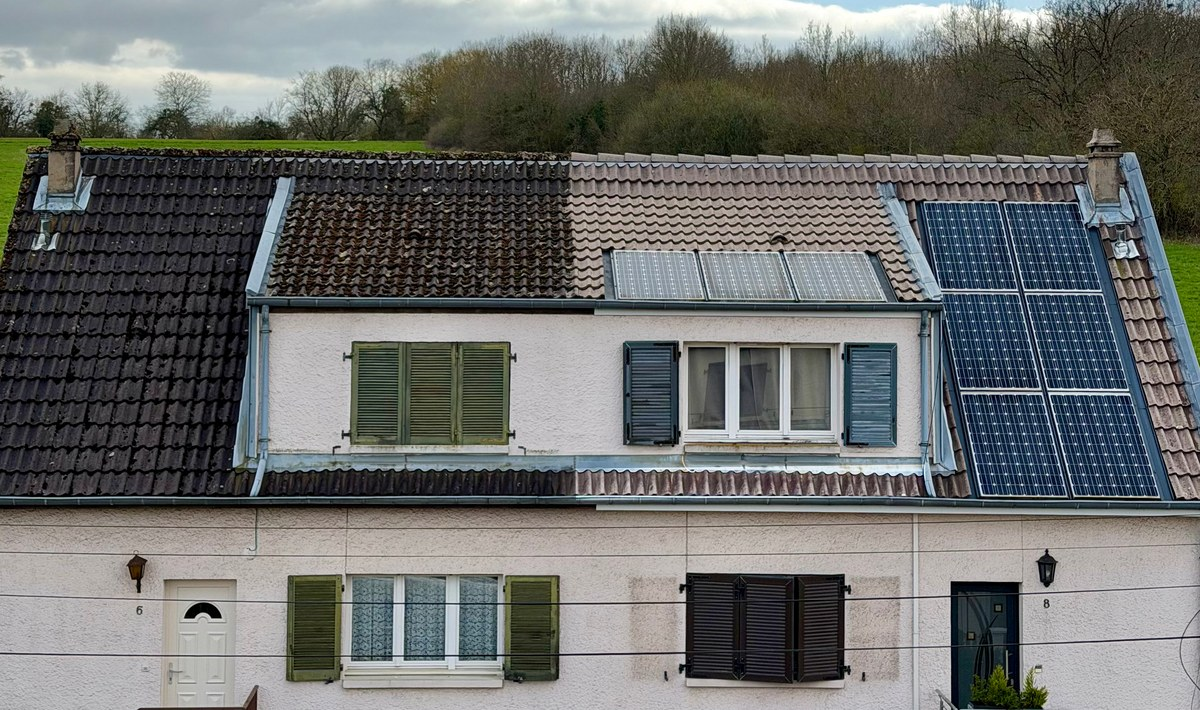
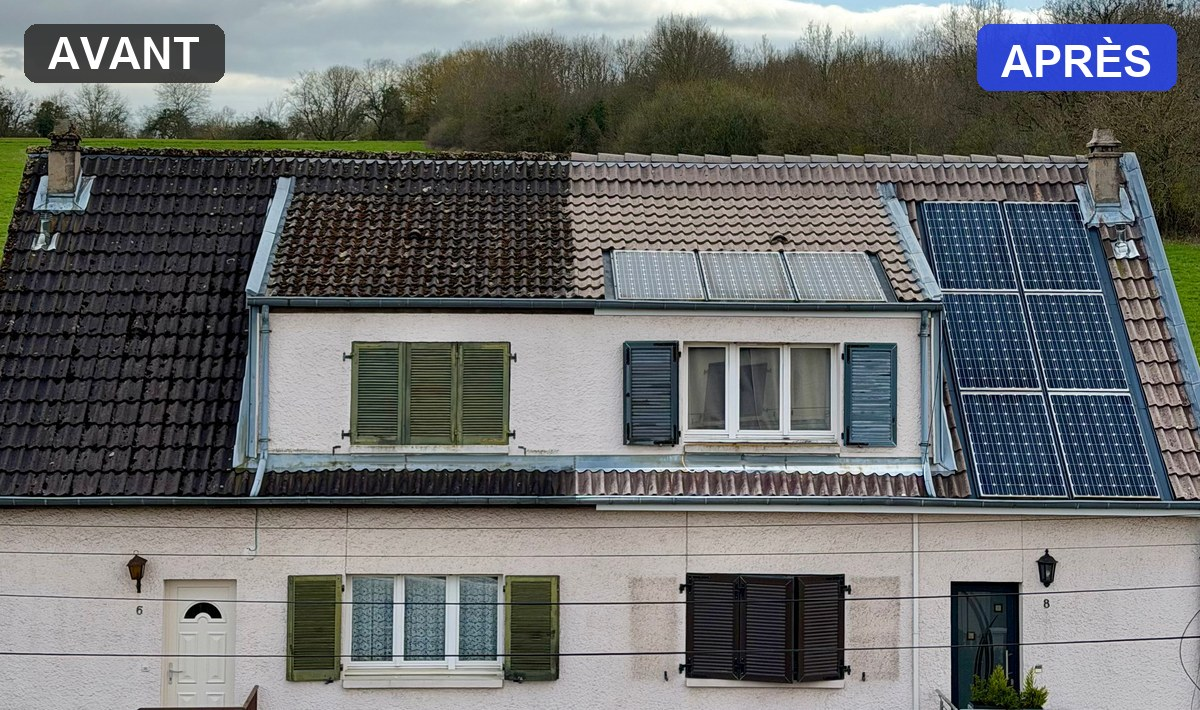
feat: corrections site (badges mobile, avant/après démoussage, prise de contact 48h, TVA, infos légales)
- Galerie: images visibles en entier sur mobile (badges AVANT/APRÈS non coupés)
- Démoussage Woippy transformé en carte avant/après (badges sur photo unique)
- Reformulation 'prise de contact sous 48h' (FAQ, contact, formulaire, réactivité)
- Bandeau et mentions: savoir-faire de père en fils depuis 1979
- Footer: n° TVA FR 86 881 492 698 + assurance RC/décennale Allianz
- Blog: retrait MaPrimeRénov'/CEE/éco-PTZ, recentré sur la TVA réduite
- Retrait 'agréé' (FAQ + logo Velux) et 'déplacement offert/gratuit' (Pourquoi + FAQ)
- Définition: 'De la toiture neuve à l'entretien'

Changed region(s): [[0.8017, 0.031, 0.9867, 0.1549], [0.0, 0.031, 0.185, 0.1239]]

diff --git a/index.html b/index.html
@@ -111,7 +111,7 @@
   .blog-card .readmore { font-weight: 800; font-size: 14.5px; color: #2A46E0; }
 
   /* Corrections mobile */
-  @media (max-width: 600px) { .installer-line { flex-direction: column; gap: 8px; } }
+  @media (max-width: 600px) { .installer-line { flex-direction: column; gap: 8px; } #realisations .card img { height: auto !important; } }
   @media (max-width: 480px) { .header-tel { display: none !important; } }
   @media (max-width: 760px) { .why-intro { position: static !important; top: auto !important; } }
 
@@ -134,9 +134,9 @@
       "telephone": "+33354730645",
       "email": "toiture.rs@gmail.com",
       "priceRange": "€€",
-      "slogan": "Savoir-faire de père en fils depuis 1986",
+      "slogan": "Savoir-faire de père en fils depuis 1979",
       "image": "https://www.schoeffter-toiture.fr/assets/hero-couverture-metz.jpg",
-      "vatID": "88149269800017",
+      "vatID": "FR86881492698",
       "identifier": { "@type": "PropertyValue", "name": "SIRET", "value": "881 492 698 00017" },
       "address": {
         "@type": "PostalAddress",
@@ -181,11 +181,11 @@
       "@id": "https://www.schoeffter-toiture.fr/#faq",
       "speakable": { "@type": "SpeakableSpecification", "cssSelector": ["#faq"] },
       "mainEntity": [
-        { "@type": "Question", "name": "La SAS Schoeffter réalise-t-elle des devis gratuits ?", "acceptedAnswer": { "@type": "Answer", "text": "Oui. Les devis sont gratuits et sans engagement pour les particuliers et les collectivités, déplacement et analyse de la toiture compris. La demande se fait par téléphone au 03 54 73 06 45, par email à toiture.rs@gmail.com ou via le formulaire du site." } },
+        { "@type": "Question", "name": "La SAS Schoeffter réalise-t-elle des devis gratuits ?", "acceptedAnswer": { "@type": "Answer", "text": "Oui. Les devis sont gratuits et sans engagement pour les particuliers et les collectivités, analyse de la toiture comprise. La demande se fait par téléphone au 03 54 73 06 45, par email à toiture.rs@gmail.com ou via le formulaire du site." } },
         { "@type": "Question", "name": "Quelles prestations propose un couvreur zingueur ?", "acceptedAnswer": { "@type": "Answer", "text": "Un couvreur zingueur pose et rénove les couvertures (tuiles, ardoises, zinc) et réalise tous les ouvrages d'évacuation des eaux : gouttières, chéneaux, noues, solins et habillages en zinc. La SAS Schoeffter ajoute la charpente, l'isolation des combles, le démoussage et la pose de Velux." } },
-        { "@type": "Question", "name": "Combien de temps pour un devis de toiture ?", "acceptedAnswer": { "@type": "Answer", "text": "La visite est planifiée sous 48 à 72 heures ouvrées et le devis écrit est remis dans les 48 heures qui suivent. En cas de fuite ou de toiture endommagée, une intervention d'urgence est possible le jour même." } },
-        { "@type": "Question", "name": "Intervenez-vous au Luxembourg ?", "acceptedAnswer": { "@type": "Answer", "text": "Oui. La SAS Schoeffter intervient au Luxembourg comme en Moselle et en Meurthe-et-Moselle, pour les chantiers de couverture, de charpente et de zinguerie. Le déplacement et le devis restent gratuits." } },
-        { "@type": "Question", "name": "Êtes-vous installateur Velux agréé ?", "acceptedAnswer": { "@type": "Answer", "text": "Oui, la SAS Schoeffter est installateur Velux. Nous posons et remplaçons les fenêtres de toit, volets et stores Velux, avec raccords d'étanchéité conformes aux préconisations du fabricant." } },
+        { "@type": "Question", "name": "Combien de temps pour un devis de toiture ?", "acceptedAnswer": { "@type": "Answer", "text": "Nous vous recontactons sous 48 heures ouvrées pour planifier la visite et établir votre devis. En cas de fuite ou de toiture endommagée, une intervention d'urgence est possible le jour même." } },
+        { "@type": "Question", "name": "Intervenez-vous au Luxembourg ?", "acceptedAnswer": { "@type": "Answer", "text": "Oui. La SAS Schoeffter intervient au Luxembourg comme en Moselle et en Meurthe-et-Moselle, pour les chantiers de couverture, de charpente et de zinguerie. Le devis reste gratuit et sans engagement." } },
+        { "@type": "Question", "name": "Êtes-vous installateur Velux ?", "acceptedAnswer": { "@type": "Answer", "text": "Oui, la SAS Schoeffter est installateur Velux. Nous posons et remplaçons les fenêtres de toit, volets et stores Velux, avec raccords d'étanchéité conformes aux préconisations du fabricant." } },
         { "@type": "Question", "name": "Proposez-vous le démoussage et l'entretien de toiture ?", "acceptedAnswer": { "@type": "Answer", "text": "Oui. Le démoussage, le nettoyage des gouttières et le traitement hydrofuge font partie de nos prestations d'entretien. Un entretien tous les deux à trois ans prolonge nettement la durée de vie d'une couverture." } },
         { "@type": "Question", "name": "Pourquoi faire confiance à un professionnel pour un démoussage ?", "acceptedAnswer": { "@type": "Answer", "text": "Parce qu'un démoussage mal fait abîme la toiture. Le nettoyeur haute pression décape la surface des tuiles et réduit fortement leur durée de vie. Chez SAS Schoeffter, les amas de mousse importants sont retirés à la main, tuile par tuile, à la spatule et à la brosse pour préserver la tuile, puis nous appliquons un anti-mousse hydrofuge professionnel (Dalep 2100). S'ajoutent la sécurité du travail en hauteur et le repérage des débuts d'infiltration, qu'un professionnel détecte avant qu'ils ne causent des dégâts." } },
         { "@type": "Question", "name": "Quelles garanties offrez-vous sur vos travaux ?", "acceptedAnswer": { "@type": "Answer", "text": "Tous nos travaux de couverture et de charpente sont couverts par l'assurance décennale. La garantie de parfait achèvement s'applique un an après réception du chantier, et les matériaux bénéficient de la garantie constructeur." } }
@@ -256,8 +256,8 @@
         <span style="position:absolute;top:50%;right:clamp(8px,4vw,64px);transform:translateY(-50%);z-index:5;pointer-events:none"><img class="seal-stamp" src="assets/garantie-decennale-or.svg?v=3" alt="Garantie décennale sur nos travaux de couverture et de charpente" style="display:block;height:clamp(104px,17vw,184px);width:auto;border-radius:16px;transform:rotate(10deg);filter:drop-shadow(0 10px 15px rgba(0,0,0,0.3)) drop-shadow(0 3px 5px rgba(0,0,0,0.22))"></span>
       </div>
       <div style="background:linear-gradient(180deg,#FAF4EC 0%,#FFFFFF 100%)">
-        <p class="wrap installer-line" style="padding:26px clamp(20px,5vw,32px) 8px;display:flex;align-items:center;justify-content:center;gap:12px;flex-wrap:wrap;font-weight:800;font-size:clamp(16px,2.6vw,26px);color:#333333">&amp; installateur <img src="assets/logo-velux.svg" alt="Installateur Velux agréé" width="87" height="30" style="display:block;height:clamp(26px,3.4vw,40px);width:auto"></p>
-        <p class="wrap" style="padding:6px clamp(20px,5vw,32px) 4px;text-align:center;font-size:clamp(15px,2.2vw,18px);font-weight:800;color:#333333">Savoir-faire de père en fils depuis 1986</p>
+        <p class="wrap installer-line" style="padding:26px clamp(20px,5vw,32px) 8px;display:flex;align-items:center;justify-content:center;gap:12px;flex-wrap:wrap;font-weight:800;font-size:clamp(16px,2.6vw,26px);color:#333333">&amp; installateur <img src="assets/logo-velux.svg" alt="Installateur Velux" width="87" height="30" style="display:block;height:clamp(26px,3.4vw,40px);width:auto"></p>
+        <p class="wrap" style="padding:6px clamp(20px,5vw,32px) 4px;text-align:center;font-size:clamp(15px,2.2vw,18px);font-weight:800;color:#333333">Un savoir-faire transmis de père en fils depuis 1979</p>
         <p class="wrap" style="padding:4px clamp(20px,5vw,32px) 26px;text-align:center;font-size:13px;font-weight:800;letter-spacing:0.12em;text-transform:uppercase;color:#6b6b6b">Devis gratuit · Artisan local en Moselle</p>
       </div>
     </section>
@@ -266,7 +266,7 @@
       <div class="wrap" style="padding:clamp(56px,8vw,88px) clamp(20px,5vw,32px)">
         <p class="eyebrow">Nos prestations</p>
         <h2 id="prestations-title" style="margin:0 0 12px;font-size:clamp(26px,3.6vw,40px);line-height:1.1;font-weight:900;letter-spacing:-0.02em;color:#333333">Couvreur zingueur en Moselle : tous les travaux de toiture</h2>
-        <p id="definition" style="margin:0 0 32px;font-size:17px;line-height:1.6;color:#5a5a5a;max-width:62ch">La SAS Schoeffter est une entreprise de couverture basée à Metz qui intervient dans toute la Moselle (57) pour la charpente, la couverture, la zinguerie et l'entretien de toiture. De la charpente neuve à l'entretien, nous prenons en charge le chantier complet.</p>
+        <p id="definition" style="margin:0 0 32px;font-size:17px;line-height:1.6;color:#5a5a5a;max-width:62ch">La SAS Schoeffter est une entreprise de couverture basée à Metz qui intervient dans toute la Moselle (57) pour la charpente, la couverture, la zinguerie et l'entretien de toiture. De la toiture neuve à l'entretien, nous prenons en charge le chantier complet.</p>
         <div style="display:grid;grid-template-columns:repeat(auto-fit,minmax(270px,1fr));gap:22px">
 
           <article class="card" style="background:#FFFFFF;border:1px solid #e8e2d8;border-radius:14px;padding:24px;display:flex;flex-direction:column;gap:12px;box-shadow:0 2px 10px rgba(51,51,51,0.05)">
@@ -333,7 +333,7 @@
             <figcaption style="padding:14px 16px;font-size:14.5px;font-weight:700;color:#333333">Réfection complète de toiture terre cuite · Saulny</figcaption>
           </figure>
           <figure class="card" style="flex:0 0 clamp(280px,80vw,440px);scroll-snap-align:start;margin:0;border-radius:14px;overflow:hidden;border:1px solid #e8e2d8;background:#FFFFFF;box-shadow:0 2px 10px rgba(51,51,51,0.05)">
-            <img src="assets/chantier-demoussage-tuiles-woippy.jpg" alt="Démoussage de tuiles béton à Woippy par la SAS Schoeffter" loading="lazy" style="display:block;width:100%;height:260px;object-fit:cover">
+            <img src="assets/chantier-demoussage-tuiles-woippy.jpg" alt="Démoussage de tuiles béton à Woippy, avant-après, par la SAS Schoeffter" loading="lazy" style="display:block;width:100%;height:260px;object-fit:cover">
             <figcaption style="padding:14px 16px;font-size:14.5px;font-weight:700;color:#333333">Démoussage de tuiles béton · Woippy</figcaption>
           </figure>
           <figure class="card" style="flex:0 0 clamp(280px,80vw,440px);scroll-snap-align:start;margin:0;border-radius:14px;overflow:hidden;border:1px solid #e8e2d8;background:#FFFFFF;box-shadow:0 2px 10px rgba(51,51,51,0.05)">
@@ -369,9 +369,9 @@
         <div class="why-intro" style="position:sticky;top:96px">
           <p style="margin:0 0 10px;font-size:13px;font-weight:800;letter-spacing:0.14em;text-transform:uppercase;color:#9fb0ff">Pourquoi nous choisir</p>
           <h2 id="pourquoi-title" style="margin:0 0 16px;font-size:clamp(26px,3.6vw,40px);line-height:1.1;font-weight:900;letter-spacing:-0.02em;color:#FFFFFF">Un artisan couvreur local et réactif</h2>
-          <p style="margin:0 0 26px;font-size:17px;line-height:1.6;color:#c9c9c9;max-width:38ch">Un savoir-faire transmis de père en fils depuis 1986. Une seule équipe du premier appel à la réception du chantier, avec des délais annoncés et tenus.</p>
+          <p style="margin:0 0 26px;font-size:17px;line-height:1.6;color:#c9c9c9;max-width:38ch">Un savoir-faire transmis de père en fils depuis 1979. Une seule équipe du premier appel à la réception du chantier, avec des délais annoncés et tenus.</p>
           <a class="btn-primary" href="#contact" style="display:inline-block;font-weight:800;font-size:16px;padding:15px 24px;border-radius:12px">Demander un devis gratuit</a>
-          <p style="margin:14px 0 0;font-size:15px;color:#a8a8a8">Réponse rapide, déplacement offert en Moselle.</p>
+          <p style="margin:14px 0 0;font-size:15px;color:#a8a8a8">Réponse rapide dans toute la Moselle.</p>
         </div>
         <ul style="margin:0;padding:0;list-style:none;display:flex;flex-direction:column">
           <li class="reveal" style="display:grid;grid-template-columns:auto 1fr;gap:6px 20px;padding:22px 0;border-top:1px solid rgba(255,255,255,0.14)">
@@ -382,12 +382,12 @@
           <li class="reveal" style="display:grid;grid-template-columns:auto 1fr;gap:6px 20px;padding:22px 0;border-top:1px solid rgba(255,255,255,0.14)">
             <span aria-hidden="true" style="font-size:13px;font-weight:800;color:#9fb0ff;letter-spacing:0.08em;padding-top:5px">02</span>
             <h3 style="margin:0;font-size:clamp(18px,2.2vw,22px);font-weight:800;letter-spacing:-0.01em;color:#FFFFFF">Réactivité</h3>
-            <p style="grid-column:2;margin:0;font-size:16px;line-height:1.6;color:#c9c9c9;max-width:46ch">Visite sous 48 à 72h et intervention d'urgence possible le jour même en cas de fuite.</p>
+            <p style="grid-column:2;margin:0;font-size:16px;line-height:1.6;color:#c9c9c9;max-width:46ch">Prise de contact sous 48h et intervention d'urgence possible le jour même en cas de fuite.</p>
           </li>
           <li class="reveal" style="display:grid;grid-template-columns:auto 1fr;gap:6px 20px;padding:22px 0;border-top:1px solid rgba(255,255,255,0.14)">
             <span aria-hidden="true" style="font-size:13px;font-weight:800;color:#9fb0ff;letter-spacing:0.08em;padding-top:5px">03</span>
             <h3 style="margin:0;font-size:clamp(18px,2.2vw,22px);font-weight:800;letter-spacing:-0.01em;color:#FFFFFF">Devis gratuit</h3>
-            <p style="grid-column:2;margin:0;font-size:16px;line-height:1.6;color:#c9c9c9;max-width:46ch">Déplacement, analyse de la toiture et devis écrit offerts, sans engagement.</p>
+            <p style="grid-column:2;margin:0;font-size:16px;line-height:1.6;color:#c9c9c9;max-width:46ch">Analyse de la toiture et devis écrit offerts, sans engagement.</p>
           </li>
           <li class="reveal" style="display:grid;grid-template-columns:auto 1fr;gap:6px 20px;padding:22px 0;border-top:1px solid rgba(255,255,255,0.14)">
             <span aria-hidden="true" style="font-size:13px;font-weight:800;color:#9fb0ff;letter-spacing:0.08em;padding-top:5px">04</span>
@@ -486,7 +486,7 @@
             <div style="padding:20px 22px">
               <p class="tag">Rénovation</p>
               <h3>Refaire sa toiture à Metz : autorisations, ABF et aides financières</h3>
-              <p>Déclaration en mairie, secteur protégé, MaPrimeRénov' et TVA réduite : le parcours d'une réfection de toiture réussie.</p>
+              <p>Déclaration en mairie, secteur protégé et TVA réduite : le parcours d'une réfection de toiture réussie.</p>
               <span class="readmore">Lire l'article →</span>
             </div>
           </a>
@@ -532,7 +532,7 @@
         <div style="display:flex;flex-direction:column;gap:12px">
           <details style="background:#FFFFFF;border:1px solid #eae3d7;border-radius:12px;padding:18px 20px">
             <summary style="cursor:pointer;list-style:none;font-size:17.5px;font-weight:800;color:#333333;letter-spacing:-0.01em">La SAS Schoeffter réalise-t-elle des devis gratuits ?</summary>
-            <p style="margin:12px 0 0;font-size:16px;line-height:1.65;color:#5a5a5a">Oui. Les devis sont gratuits et sans engagement pour les particuliers et les collectivités, déplacement et analyse de la toiture compris. La demande se fait par téléphone, par email ou via le formulaire de cette page.</p>
+            <p style="margin:12px 0 0;font-size:16px;line-height:1.65;color:#5a5a5a">Oui. Les devis sont gratuits et sans engagement pour les particuliers et les collectivités, analyse de la toiture comprise. La demande se fait par téléphone, par email ou via le formulaire de cette page.</p>
           </details>
           <details style="background:#FFFFFF;border:1px solid #eae3d7;border-radius:12px;padding:18px 20px">
             <summary style="cursor:pointer;list-style:none;font-size:17.5px;font-weight:800;color:#333333;letter-spacing:-0.01em">Quelles prestations propose un couvreur zingueur ?</summary>
@@ -540,14 +540,14 @@
           </details>
           <details style="background:#FFFFFF;border:1px solid #eae3d7;border-radius:12px;padding:18px 20px">
             <summary style="cursor:pointer;list-style:none;font-size:17.5px;font-weight:800;color:#333333;letter-spacing:-0.01em">Combien de temps pour un devis de toiture ?</summary>
-            <p style="margin:12px 0 0;font-size:16px;line-height:1.65;color:#5a5a5a">La visite est planifiée sous 48 à 72 heures ouvrées. Le devis écrit est remis dans les 48 heures qui suivent. En cas de fuite, une intervention d'urgence est possible le jour même.</p>
+            <p style="margin:12px 0 0;font-size:16px;line-height:1.65;color:#5a5a5a">Nous vous recontactons sous 48 heures ouvrées pour planifier la visite et établir votre devis. En cas de fuite ou de toiture endommagée, une intervention d'urgence est possible le jour même.</p>
           </details>
           <details style="background:#FFFFFF;border:1px solid #eae3d7;border-radius:12px;padding:18px 20px">
             <summary style="cursor:pointer;list-style:none;font-size:17.5px;font-weight:800;color:#333333;letter-spacing:-0.01em">Intervenez-vous au Luxembourg ?</summary>
-            <p style="margin:12px 0 0;font-size:16px;line-height:1.65;color:#5a5a5a">Oui. Nous intervenons au Luxembourg comme en Moselle et en Meurthe-et-Moselle pour la couverture, la charpente et la zinguerie. Le déplacement et le devis restent gratuits.</p>
+            <p style="margin:12px 0 0;font-size:16px;line-height:1.65;color:#5a5a5a">Oui. Nous intervenons au Luxembourg comme en Moselle et en Meurthe-et-Moselle pour la couverture, la charpente et la zinguerie. Le devis reste gratuit et sans engagement.</p>
           </details>
           <details style="background:#FFFFFF;border:1px solid #eae3d7;border-radius:12px;padding:18px 20px">
-            <summary style="cursor:pointer;list-style:none;font-size:17.5px;font-weight:800;color:#333333;letter-spacing:-0.01em">Êtes-vous installateur Velux agréé ?</summary>
+            <summary style="cursor:pointer;list-style:none;font-size:17.5px;font-weight:800;color:#333333;letter-spacing:-0.01em">Êtes-vous installateur Velux ?</summary>
             <p style="margin:12px 0 0;font-size:16px;line-height:1.65;color:#5a5a5a">Oui, la SAS Schoeffter est installateur Velux. Nous posons et remplaçons fenêtres de toit, volets et stores Velux, avec des raccords d'étanchéité conformes aux préconisations du fabricant.</p>
           </details>
           <details style="background:#FFFFFF;border:1px solid #eae3d7;border-radius:12px;padding:18px 20px">
@@ -571,7 +571,7 @@
         <div>
           <p style="margin:0 0 10px;font-size:13px;font-weight:800;letter-spacing:0.14em;text-transform:uppercase;color:#9fb0ff">Contact &amp; devis</p>
           <h2 id="contact-title" style="margin:0 0 16px;font-size:clamp(26px,3.6vw,40px);line-height:1.1;font-weight:900;letter-spacing:-0.02em;color:#FFFFFF">Demandez votre devis gratuit</h2>
-          <p style="margin:0 0 26px;font-size:17px;line-height:1.6;color:#d8d8d8;max-width:44ch">Visite sous 48 à 72h, devis écrit gratuit et sans engagement. Urgence fuite ou toiture endommagée : appelez-nous directement.</p>
+          <p style="margin:0 0 26px;font-size:17px;line-height:1.6;color:#d8d8d8;max-width:44ch">Prise de contact sous 48h, devis écrit gratuit et sans engagement. Urgence fuite ou toiture endommagée : appelez-nous directement.</p>
           <div style="display:flex;flex-direction:column;gap:12px;max-width:420px">
             <a class="contact-cta contact-tel" href="tel:+33354730645" style="display:flex;align-items:center;justify-content:space-between;gap:12px;background:#2A46E0;color:#FFFFFF;font-weight:900;font-size:clamp(18px,3vw,22px);padding:18px 22px;border-radius:12px"><span>03 54 73 06 45</span><span style="font-size:13px;font-weight:700;letter-spacing:0.08em;text-transform:uppercase;opacity:.85">Appeler</span></a>
             <a class="contact-cta contact-mail" href="mailto:toiture.rs@gmail.com" style="display:flex;align-items:center;justify-content:space-between;gap:12px;background:#FFFFFF;color:#333333;font-weight:800;font-size:clamp(16px,2.4vw,19px);padding:18px 22px;border-radius:12px"><span>toiture.rs@gmail.com</span><span style="font-size:13px;font-weight:700;letter-spacing:0.08em;text-transform:uppercase;color:#8a8a8a">Écrire</span></a>
@@ -609,7 +609,7 @@
             </label>
             <button type="submit" class="submit-btn" style="font-family:inherit;font-weight:900;font-size:17px;color:#FFFFFF;background:#2A46E0;border:0;padding:16px 22px;border-radius:12px;cursor:pointer;box-shadow:0 10px 24px rgba(42,70,224,0.28)">Envoyer ma demande</button>
             <p id="form-statut" role="status" style="margin:0;font-size:14.5px;line-height:1.5;color:#2A46E0;font-weight:700;min-height:20px"></p>
-            <p style="margin:0;font-size:13px;line-height:1.5;color:#8a8a8a">Vos données servent uniquement à établir votre devis. Réponse sous 48h ouvrées.</p>
+            <p style="margin:0;font-size:13px;line-height:1.5;color:#8a8a8a">Vos données servent uniquement à établir votre devis. Prise de contact sous 48h ouvrées.</p>
           </form>
         </div>
       </div>
@@ -633,11 +633,11 @@
       </div>
       <div>
         <p style="margin:0 0 10px;font-size:12px;font-weight:800;letter-spacing:0.12em;text-transform:uppercase;color:#2A46E0">Informations</p>
-        <p style="margin:0;font-size:15px;line-height:1.7;color:#5a5a5a">SIRET 881 492 698 00017<br><a href="#mentions" style="font-weight:700">Mentions légales</a></p>
+        <p style="margin:0;font-size:15px;line-height:1.7;color:#5a5a5a">SIRET 881 492 698 00017<br>N° TVA : FR 86 881 492 698<br><a href="#mentions" style="font-weight:700">Mentions légales</a></p>
       </div>
     </div>
     <div id="mentions" style="border-top:1px solid #eae3d7">
-      <p class="wrap" style="padding:18px clamp(16px,4vw,32px);font-size:13.5px;color:#8a8a8a">© 2026 SAS SCHOEFFTER · Couvreur à Metz et en Moselle · Tous droits réservés.</p>
+      <p class="wrap" style="padding:18px clamp(16px,4vw,32px);font-size:13.5px;color:#8a8a8a">© 2026 SAS SCHOEFFTER · Couvreur à Metz et en Moselle · Tous droits réservés.<br>Entreprise assurée en responsabilité civile et décennale auprès d'Allianz Assurances.</p>
     </div>
   </footer>
 </div>

diff --git a/blog/refaire-toiture-metz-autorisations-aides.html b/blog/refaire-toiture-metz-autorisations-aides.html
@@ -3,13 +3,13 @@
 <head>
 <meta charset="utf-8">
 <meta name="viewport" content="width=device-width, initial-scale=1">
-<title>Refaire sa toiture à Metz : autorisations, ABF et aides financières | SAS Schoeffter</title>
-<meta name="description" content="Déclaration en mairie, avis de l'Architecte des Bâtiments de France, MaPrimeRénov', TVA réduite : le guide des démarches et aides pour refaire sa toiture à Metz et en Moselle.">
+<title>Refaire sa toiture à Metz : autorisations, ABF et TVA réduite | SAS Schoeffter</title>
+<meta name="description" content="Déclaration en mairie, avis de l'Architecte des Bâtiments de France, TVA réduite : le guide des démarches pour refaire sa toiture à Metz et en Moselle.">
 <link rel="canonical" href="https://www.schoeffter-toiture.fr/blog/refaire-toiture-metz-autorisations-aides.html">
 <meta name="robots" content="index, follow">
 <meta property="og:type" content="article">
 <meta property="og:locale" content="fr_FR">
-<meta property="og:title" content="Refaire sa toiture à Metz : autorisations, ABF et aides financières">
+<meta property="og:title" content="Refaire sa toiture à Metz : autorisations, ABF et TVA réduite">
 <meta property="og:description" content="Le guide des démarches et aides pour refaire sa toiture à Metz et en Moselle.">
 <link rel="icon" type="image/png" sizes="32x32" href="../assets/favicon-32.png">
 <link rel="apple-touch-icon" sizes="180x180" href="../assets/apple-touch-icon.png">
@@ -23,8 +23,8 @@
   "@graph": [
     {
       "@type": "BlogPosting",
-      "headline": "Refaire sa toiture à Metz : autorisations, ABF et aides financières",
-      "description": "Déclaration en mairie, avis de l'Architecte des Bâtiments de France, MaPrimeRénov', TVA réduite : les démarches et aides pour refaire sa toiture à Metz.",
+      "headline": "Refaire sa toiture à Metz : autorisations, ABF et TVA réduite",
+      "description": "Déclaration en mairie, avis de l'Architecte des Bâtiments de France, TVA réduite : les démarches pour refaire sa toiture à Metz.",
       "inLanguage": "fr",
       "image": "https://www.schoeffter-toiture.fr/assets/article-renovation-toiture.jpg",
       "author": { "@type": "Organization", "name": "SAS SCHOEFFTER" },
@@ -55,8 +55,8 @@
   <p class="breadcrumb"><a href="../index.html">Accueil</a> › <a href="../index.html#blog">Conseils</a> › Refaire sa toiture à Metz</p>
 
   <article>
-    <h1>Refaire sa toiture à Metz : autorisations, ABF et aides financières</h1>
-    <p class="lead">Refaire une toiture ne se résume pas au chantier. À Metz, certaines rues imposent des démarches précises avant de commencer, et plusieurs aides peuvent alléger la facture, surtout si vous en profitez pour isoler. Voici l'essentiel à connaître.</p>
+    <h1>Refaire sa toiture à Metz : autorisations, ABF et TVA réduite</h1>
+    <p class="lead">Refaire une toiture ne se résume pas au chantier. À Metz, certaines rues imposent des démarches précises avant de commencer, et une TVA réduite peut alléger la facture. Voici l'essentiel à connaître.</p>
     <p class="meta">Par la SAS Schoeffter, couvreur à Metz et en Moselle</p>
     <img class="article-hero" src="../assets/article-renovation-toiture.jpg" alt="Toits en tuiles du centre historique de Metz au bord de l'eau">
 
@@ -72,17 +72,12 @@
       <p><strong>Le réflexe utile :</strong> avant tout achat de matériaux, vérifiez en mairie si votre adresse est concernée par un périmètre ABF. Cela évite de refaire un dossier, ou pire, de devoir déposer une couverture non conforme.</p>
     </div>
 
-    <h2>Quelles aides financières pour une toiture ?</h2>
-    <p>Un point important à comprendre : les grandes aides à la rénovation concernent la <strong>performance énergétique</strong>, donc surtout l'<strong>isolation</strong>, pas la simple réfection de couverture. Si vous profitez du chantier pour isoler votre toiture ou vos combles, vous pouvez prétendre à :</p>
-    <ul>
-      <li><strong>MaPrimeRénov'</strong> : aide de l'État pour les travaux d'isolation, sous conditions de ressources et de performance.</li>
-      <li><strong>Les CEE (Certificats d'Économie d'Énergie)</strong> : primes versées par les fournisseurs d'énergie pour l'isolation.</li>
-      <li><strong>L'éco-prêt à taux zéro</strong> pour financer le reste à charge.</li>
-    </ul>
-    <p>Pour la couverture elle-même, l'avantage principal est la <strong>TVA réduite à 10 %</strong>, applicable aux travaux de rénovation et d'entretien d'un logement de plus de deux ans (contre 20 % en temps normal). Les travaux d'amélioration énergétique comme l'isolation bénéficient même d'une TVA à 5,5 %.</p>
+    <h2>La TVA réduite sur vos travaux de toiture</h2>
+    <p>Les travaux de rénovation et d'entretien réalisés dans un logement achevé depuis plus de deux ans bénéficient d'une <strong>TVA réduite</strong>, appliquée directement sur le devis au lieu du taux normal de 20 %. Les travaux d'amélioration énergétique, comme l'isolation de la toiture ou des combles, relèvent du taux de <strong>5,5 %</strong>.</p>
+    <p>Vous n'avez aucune démarche à faire : nous établissons le devis en appliquant directement le taux de TVA correspondant à votre chantier.</p>
 
     <div class="callout">
-      <p>Les montants et conditions de ces aides évoluent régulièrement. Le service public <a href="https://france-renov.gouv.fr" target="_blank" rel="noopener">France Rénov'</a> recense les aides en vigueur. Vérifiez toujours les barèmes du moment, ou demandez-nous : nous chiffrons le devis en tenant compte de la TVA applicable.</p>
+      <p>Les taux de TVA et leurs conditions d'application peuvent évoluer. En cas de doute, demandez-nous : nous chiffrons le devis en tenant compte du taux de TVA applicable à vos travaux.</p>
     </div>
 
     <h2>Bien choisir son artisan</h2>
